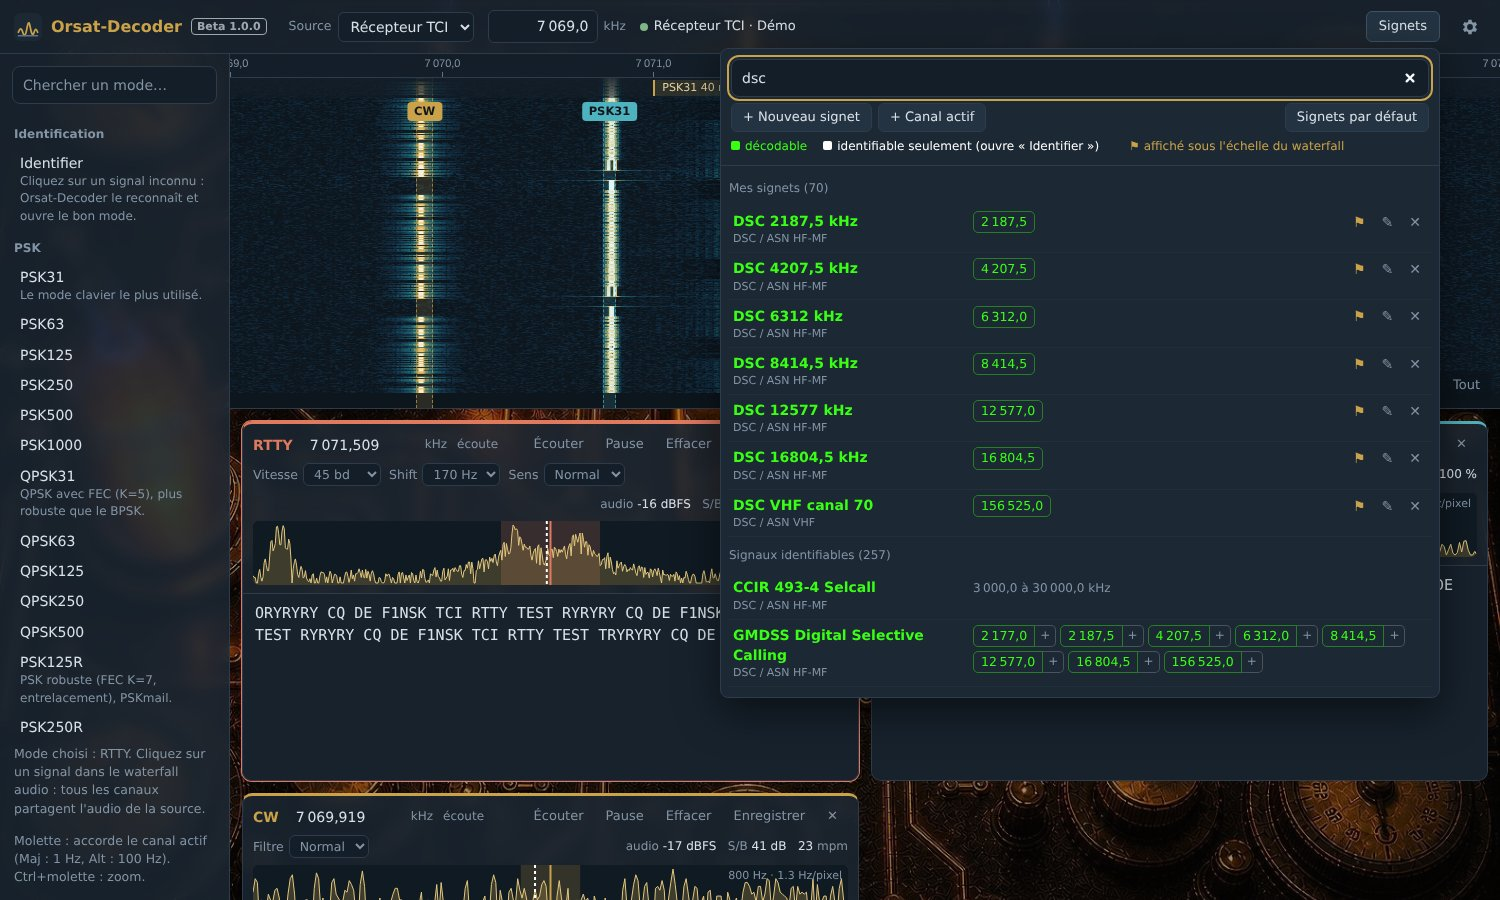
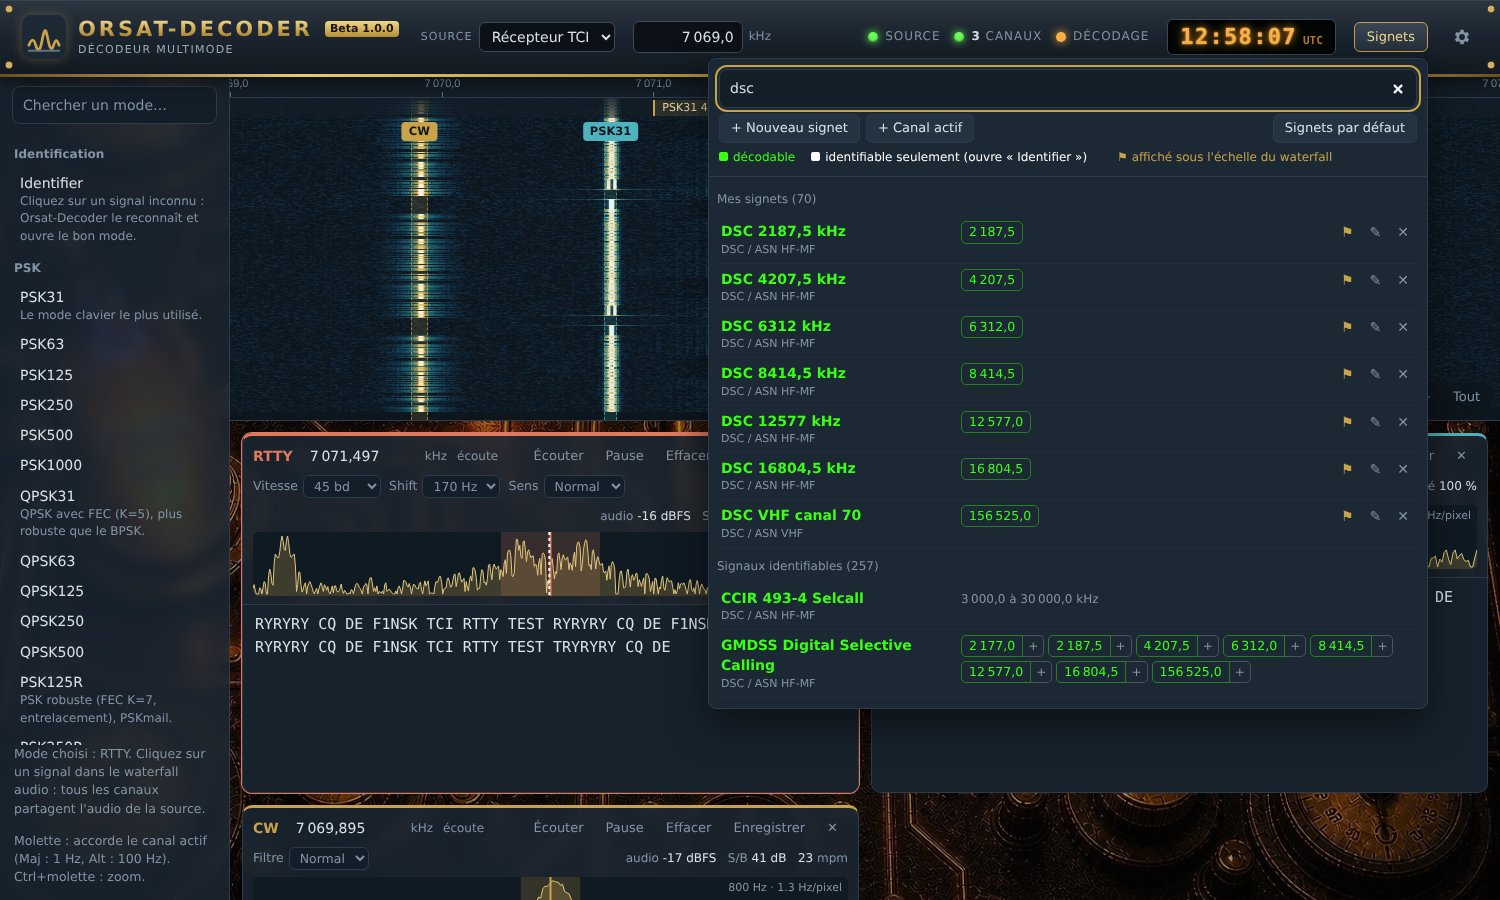
Interface : en-tête façon façade d'appareil (filet laiton, voyants Source / canaux / décodage, horloge UTC)
Claude-Session: https://claude.ai/code/session_01Ux6u86RgCifqEJttvp7NMN

diff --git a/web/style.css b/web/style.css
@@ -33,18 +33,53 @@ button { cursor: pointer; }
 :focus-visible { outline: 2px solid var(--gold); outline-offset: 2px; }
 [hidden] { display: none !important; }
 
-#app { height: 100vh; display: grid; grid-template-columns: 230px 1fr; grid-template-rows: 54px 1fr;
+#app { height: 100vh; display: grid; grid-template-columns: 230px 1fr; grid-template-rows: 74px 1fr;
   grid-template-areas: "bar bar" "modes main"; }
 
-/* ---------- barre ---------- */
-#bar { grid-area: bar; display: flex; align-items: center; gap: 14px; padding: 0 14px;
-  background: var(--glass); backdrop-filter: blur(6px); border-bottom: 1px solid var(--line); position: relative; z-index: 30; }
-.brand { display: flex; align-items: center; gap: 9px; font-weight: 700; color: var(--gold); font-size: 16px; margin-right: 8px; }
-.brand img { width: 28px; height: 28px; }
-.brand .ver { font-size: 11px; font-weight: 600; color: var(--text); opacity: .7; border: 1px solid currentColor; border-radius: 4px; padding: 0 5px; }
+/* ---------- en-tête : façade d'appareil, filet laiton, voyants et afficheur ---------- */
+#bar { grid-area: bar; display: flex; align-items: center; gap: 18px; padding: 0 22px; position: relative; z-index: 30;
+  background: linear-gradient(180deg, #2B3540 0%, #1A232D 55%, #121920 100%);
+  box-shadow: inset 0 1px 0 #ffffff14, 0 6px 18px #0009; }
+#bar::after { content: ""; position: absolute; left: 0; right: 0; bottom: -3px; height: 3px; pointer-events: none;
+  background: linear-gradient(90deg, #6B4E1C, #E8C873 20%, #A8812F 50%, #F2D78A 80%, #6B4E1C); }
+#bar::before { content: ""; position: absolute; inset: 0; pointer-events: none;
+  --vis: #CDB06A 0 3px, #5A4520 3.5px, transparent 4.5px;
+  background: radial-gradient(circle at 9px 9px, var(--vis)), radial-gradient(circle at calc(100% - 9px) 9px, var(--vis)),
+    radial-gradient(circle at 9px calc(100% - 9px), var(--vis)), radial-gradient(circle at calc(100% - 9px) calc(100% - 9px), var(--vis)); }
+.brand { display: flex; align-items: center; gap: 12px; margin-right: 4px; white-space: nowrap; }
+.brand img { width: 44px; height: 44px; filter: drop-shadow(0 0 6px #C9A24A55); }
+.brand .titles { display: flex; flex-direction: column; line-height: 1.1; }
+.brand .titles b { font-size: 21px; letter-spacing: .14em; text-transform: uppercase;
+  background: linear-gradient(180deg, #F6DE95, #C9A24A 55%, #8C6A25); -webkit-background-clip: text; background-clip: text; color: transparent; }
+.brand .titles small { font-size: 11px; color: #9AA9B7; letter-spacing: .12em; text-transform: uppercase; margin-top: 3px; }
+.brand .ver { align-self: flex-start; margin-top: 6px; font-size: 11px; font-weight: 700; color: #1A1206; border-radius: 4px; padding: 0 5px;
+  background: linear-gradient(180deg, #F2D78A, #B58D36); }
+.brand .ver:empty { display: none; }
+#bar .pick { white-space: nowrap; }
+#bar .pick-lbl { text-transform: uppercase; letter-spacing: .1em; font-size: 11px; }
+#bar select, #bar .dial input { background: #0B1117; border-color: #3A4A5A; }
+.status { display: flex; gap: 14px; font-size: 12px; text-transform: uppercase; letter-spacing: .08em; color: #8394A5; white-space: nowrap; }
+.led { display: flex; align-items: center; gap: 7px; }
+.led i { width: 10px; height: 10px; border-radius: 50%; background: #2A3540; box-shadow: inset 0 1px 2px #000a; transition: background .2s, box-shadow .2s; }
+.led b { color: var(--text); font-weight: 700; }
+.led.on i { background: #6CFF5A; box-shadow: 0 0 8px #6CFF5A, inset 0 -1px 2px #0006; }
+.led.bad i { background: #FF5A4A; box-shadow: 0 0 8px #FF5A4A; }
+.led.act i { background: #FFB347; box-shadow: 0 0 10px #FFB347; }
+.clock { display: flex; align-items: baseline; gap: 6px; padding: 6px 12px; border-radius: 6px; white-space: nowrap;
+  background: #050807; border: 1px solid #3A4A5A; box-shadow: inset 0 2px 8px #000; }
+.clock span { font: 600 22px/1 var(--mono); color: #FFB347; text-shadow: 0 0 8px #FF9A1F, 0 0 2px #FFD08A; letter-spacing: .06em; }
+.clock small { color: #B77A2A; font: 600 11px var(--mono); }
+#presetBtn { background: linear-gradient(180deg, #3A4756, #26313D); border-color: #5C4A24; color: #F2D78A; }
+#presetBtn:hover { border-color: #C9A24A; }
+/* écrans étroits : on garde l'essentiel */
+@media (max-width: 1350px) { .status { display: none; } }
+@media (max-width: 1100px) { .brand .titles small, .clock small { display: none; } .conn { max-width: 120px; } }
 select { background: var(--night); border: 1px solid var(--line); border-radius: 6px; padding: 5px 8px; max-width: 260px; }
-.conn { font-size: 13px; color: var(--muted); display: flex; align-items: center; gap: 6px; }
+.conn { font-size: 13px; color: var(--muted); max-width: 320px; min-width: 0; }
+.conn { overflow: hidden; text-overflow: ellipsis; white-space: nowrap; display: block; }
+.conn::before { display: inline-block; margin-right: 6px; vertical-align: 1px; }
 .conn::before { content: ""; width: 8px; height: 8px; border-radius: 50%; background: var(--muted); }
+.conn.ok { display: none; }  /* connecté : le voyant Source suffit (détail au survol) */
 .conn.ok { color: var(--text); } .conn.ok::before { background: var(--ok); }
 .conn.bad::before { background: var(--bad); }
 .spacer { flex: 1; }

diff --git a/web/app.js b/web/app.js
@@ -57,16 +57,28 @@ const H = {
   chans_reset() { for (const c of [...S.chans.keys()]) removeChanCard(c); },
   chan(m) { upsertChan(m); },
   chan_removed(m) { removeChanCard(m.ch); },
-  text(m) { const c = S.chans.get(m.ch); if (c) writeText(c, m.text); },
-  msg(m) { const c = S.chans.get(m.ch); if (c) writeMsg(c, m); },
-  img(m) { const c = S.chans.get(m.ch); if (c) onImage(c, m); },
+  text(m) { const c = S.chans.get(m.ch); if (c) { writeText(c, m.text); if (m.text.trim()) rxPulse(); } },
+  msg(m) { const c = S.chans.get(m.ch); if (c) { writeMsg(c, m); rxPulse(); } },
+  img(m) { const c = S.chans.get(m.ch); if (c) { onImage(c, m); rxPulse(); } },
   cstat(m) { const c = S.chans.get(m.ch); if (c) updateStat(c, m); },
   ident(m) { const c = S.chans.get(m.ch); if (c) renderIdent(c, m); },
   notice(m) { toast(m.text, m.level === 'error' ? 'error' : ''); },
   audio_inputs(m) { S.inputs = m.inputs || []; renderSources(); },
 };
 
-function setConn(text, cls) { const c = $('#conn'); c.textContent = text; c.className = 'conn ' + (cls || ''); }
+function setConn(text, cls) {
+  const c = $('#conn'); c.textContent = text; c.title = text; c.className = 'conn ' + (cls || '');
+  const led = $('#ledSrc'); led.className = 'led' + (cls === 'ok' ? ' on' : cls === 'bad' ? ' bad' : ''); led.title = text;
+}
+// voyants de l'en-tête : canaux ouverts, activité de décodage ; horloge UTC
+function updLeds() { $('#nCh').textContent = S.chans.size; $('#ledCh').classList.toggle('on', S.chans.size > 0); }
+let rxTimer = 0;
+function rxPulse() {
+  $('#ledRx').classList.add('act');
+  clearTimeout(rxTimer); rxTimer = setTimeout(() => $('#ledRx').classList.remove('act'), 1500);
+}
+function tickUtc() { $('#utc').textContent = new Date().toISOString().slice(11, 19); }
+tickUtc(); setInterval(tickUtc, 1000);
 
 const CODECS = { pcm: 'PCM', flac: 'FLAC', opus: 'Opus' };
 function onSource(info) {
@@ -322,6 +334,7 @@ function upsertChan(d) {
   if (!c) {
     c = { ...d, color: colorFor(d.id), lastSlot: null };
     S.chans.set(d.id, c);
+    updLeds();
     buildCard(c);
   } else {
     const keep = c.pendingFreq != null && Date.now() - (c.lastTune || 0) < 600 ? c.pendingFreq : null;
@@ -335,7 +348,7 @@ function upsertChan(d) {
 function removeChanCard(id) {
   const c = S.chans.get(id); if (!c) return;
   if (S.listen === id) { S.listen = null; send({ t: 'listen', ch: null }); }
-  c.card.remove(); S.chans.delete(id); placeMarkers();
+  c.card.remove(); S.chans.delete(id); updLeds(); placeMarkers();
   $('#chanEmpty').hidden = S.chans.size > 0;
 }
 function buildCard(c) {

diff --git a/web/index.html b/web/index.html
@@ -11,7 +11,7 @@
 <body>
 <div id="app">
   <header id="bar">
-    <div class="brand"><img src="icon.svg" alt=""><span>Orsat-Decoder</span><span id="ver" class="ver"></span></div>
+    <div class="brand"><img src="icon.svg" alt=""><span class="titles"><b>Orsat-Decoder</b><small>Décodeur multimode</small></span><span id="ver" class="ver"></span></div>
 
     <label class="pick" title="Source du signal : serveur PhantomSDR, TCI ou entrée audio">
       <span class="pick-lbl">Source</span>
@@ -26,6 +26,13 @@
     <span id="conn" class="conn">Connexion…</span>
 
     <div class="spacer"></div>
+
+    <div class="status" aria-label="État">
+      <span class="led" id="ledSrc" title="Connexion à la source"><i></i>Source</span>
+      <span class="led" id="ledCh" title="Canaux ouverts"><i></i><span><b id="nCh">0</b> canaux</span></span>
+      <span class="led" id="ledRx" title="S'allume quand un décodeur reçoit du texte ou une image"><i></i>Décodage</span>
+    </div>
+    <div class="clock" title="Heure UTC"><span id="utc">--:--:--</span><small>UTC</small></div>
 
     <div class="menu-wrap">
       <button id="presetBtn" class="btn" title="Signets : vos fréquences et les signaux identifiables">Signets</button>
